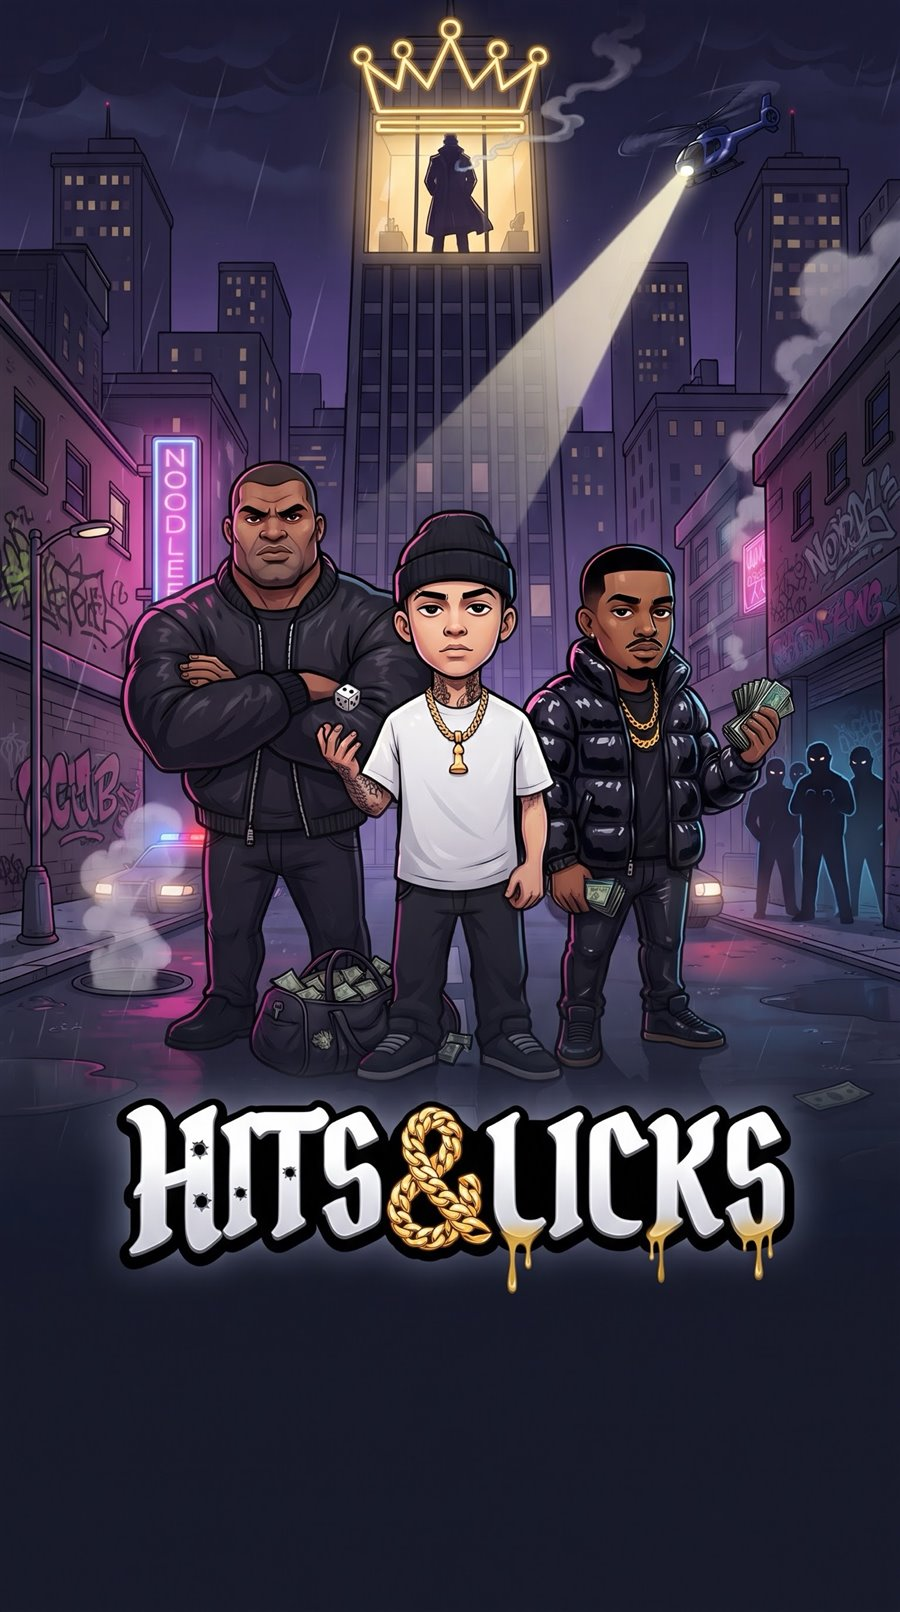
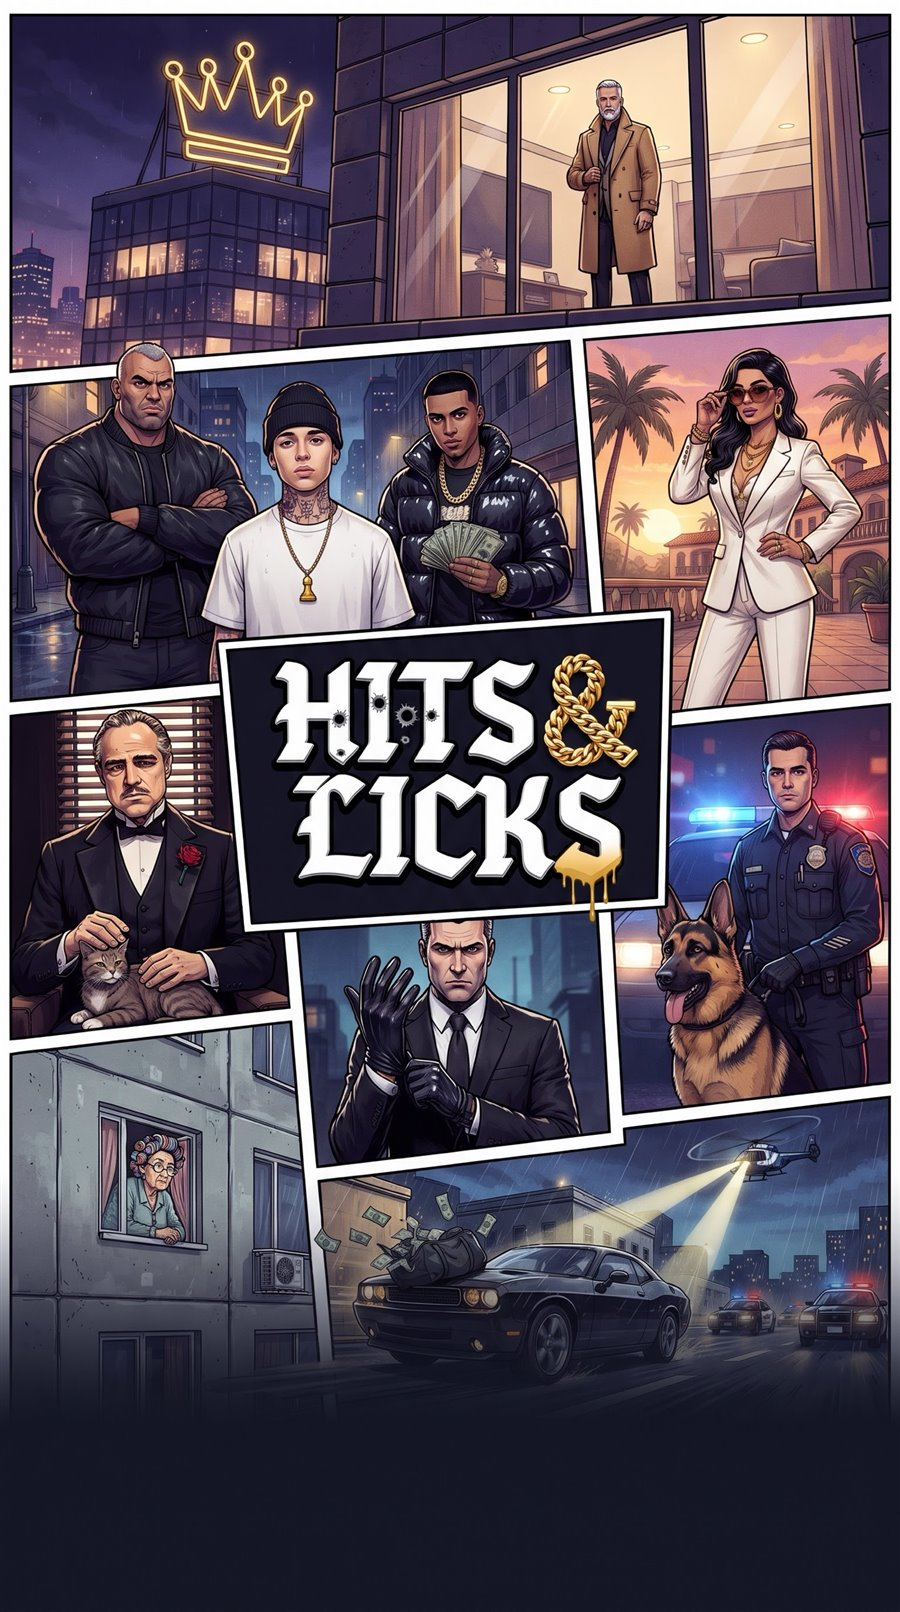
Novy plagat na uvodnej obrazovke

diff --git a/js/remote.js b/js/remote.js
@@ -1,10 +1,10 @@
 // Online client: the same SimServer, but only as a read-only mirror of the state the real server sent.
 // Every action goes to the Edge Function "game"; its answer replaces the mirror. Things the server rolls
 // at random (mission offers, shop stock, arena opponents, rival gang moves) are never rolled here.
-import { SimServer } from './server.js?v=20261022183010';
-import { NET } from './net.js?v=20261022183010';
-import { CONFIG } from './config.js?v=20261022183010';
-import { SHOPS } from './data.js?v=20261022183010';
+import { SimServer } from './server.js?v=20261022222349';
+import { NET } from './net.js?v=20261022222349';
+import { CONFIG } from './config.js?v=20261022222349';
+import { SHOPS } from './data.js?v=20261022222349';
 
 const SUPABASE_JS = 'https://cdn.jsdelivr.net/npm/@supabase/supabase-js@2.45.4/+esm';
 
@@ -29,7 +29,7 @@ export class RemoteServer extends SimServer {
 
   // ?mock in the address: no Supabase, the server API runs in this browser against an in-memory database
   async initMock() {
-    const { handle, memoryDb } = await import('./api.js?v=20261022183010');
+    const { handle, memoryDb } = await import('./api.js?v=20261022222349');
     const db = memoryDb();
     const fake = { user: { id: 'mock-user', email: 'test@mock' } };
     this.sb = { auth: { signOut: async () => {}, signInWithPassword: async () => ({ data: { session: fake } }), signUp: async () => ({ data: { session: fake } }), resetPasswordForEmail: async () => ({}) } };

diff --git a/js/world.js b/js/world.js
@@ -1,8 +1,8 @@
 // The open world: pixel-art city, player movement, NPCs, traffic, police. Uses global Phaser.
 // The city (Mesto 1) comes from assets/world/city.json, made by tools/art/City.cs: a collision grid,
 // a street graph that cars, police, walkers, the Ripper and the runner move on, and the buildings (marks).
-import { NPCS, POIS, SPAWN, LABELS, TURF, TRAFFIC_CARS, POLICE_CARS, WALKER_SPRITES, WALKER_COUNT } from './data.js?v=20261022183010';
-import { mulberry32 } from './combat.js?v=20261022183010'; // the server's generator: a task's seed hides its packages on the same corners everywhere
+import { NPCS, POIS, SPAWN, LABELS, TURF, TRAFFIC_CARS, POLICE_CARS, WALKER_SPRITES, WALKER_COUNT } from './data.js?v=20261022222349';
+import { mulberry32 } from './combat.js?v=20261022222349'; // the server's generator: a task's seed hides its packages on the same corners everywhere
 
 const PEOPLE = ['hrac', 'zlodej', 'svalovec', 'dealer', 'boss', 'zadavatel', 'diler', 'mechanik', 'pravnicka', 'lekarka', 'policajt', 'chodkyna', 'chodec'];
 const CARS = ['sedan_blue', 'sedan_red', 'sedan_green', 'sedan_white', 'taxi', 'police', 'van', 'pickup'];

diff --git a/css/style.css b/css/style.css
@@ -357,8 +357,8 @@ button:focus-visible { outline: 1px solid var(--gold-l); outline-offset: 2px; }
 /* title poster (logo included): the form sits in its dark lower part, which fades into the page black */
 .title-scr .poster { position: absolute; left: 0; right: 0; top: 0; }
 .title-scr .poster img { display: block; width: 100%; height: auto; }
-.title-scr .poster::after { content: ''; position: absolute; left: 0; right: 0; bottom: 0; height: 17%; background: linear-gradient(180deg, rgba(6,6,6,0), #060606 90%); }
-.title-scr .poster ~ .inner { padding-top: 144%; }
+.title-scr .poster::after { content: ''; position: absolute; left: 0; right: 0; bottom: 0; height: 14%; background: linear-gradient(180deg, rgba(6,6,6,0), #060606 90%); }
+.title-scr .poster ~ .inner { padding-top: 164%; }
 .title-scr .poster ~ .inner .tag { margin-top: 0; }
 .logo.sr { position: absolute; width: 1px; height: 1px; overflow: hidden; clip: rect(0 0 0 0); white-space: nowrap; }
 .logo { margin: 0; text-align: center; font-family: var(--black); font-weight: 900; font-size: 70px; line-height: .95; color: #efe9dc; text-shadow: 0 3px 0 #000, 0 0 24px rgba(0,0,0,.95); }

diff --git a/js/server.js b/js/server.js
@@ -1,10 +1,10 @@
 // Simulated game server. Every rule about money, rewards and fights lives here, so this module
 // can later move to a real backend (Supabase / Nakama) while the client keeps the same calls.
-import { CONFIG, F, STATS, STAT_NAMES, CLASSES, RARITIES, clamp, localParts } from './config.js?v=20261022183010';
-import { ITEM_BASES, SHOPS, MISSIONS, GIVERS, BOSSES, BOT_NAMES, SLOTS } from './data.js?v=20261022183010';
-import { makeFighter, simulate } from './combat.js?v=20261022183010';
-import { GangMixin } from './gangs.js?v=20261022183010';
-import { DailyMixin } from './daily.js?v=20261022183010';
+import { CONFIG, F, STATS, STAT_NAMES, CLASSES, RARITIES, clamp, localParts } from './config.js?v=20261022222349';
+import { ITEM_BASES, SHOPS, MISSIONS, GIVERS, BOSSES, BOT_NAMES, SLOTS } from './data.js?v=20261022222349';
+import { makeFighter, simulate } from './combat.js?v=20261022222349';
+import { GangMixin } from './gangs.js?v=20261022222349';
+import { DailyMixin } from './daily.js?v=20261022222349';
 
 const KEY = 'hitsnlicks.save.v1';
 const MIN = 60000;

diff --git a/js/ui.js b/js/ui.js
@@ -1,8 +1,8 @@
 // HTML interface: HUD, menus, screens, modals. Talks only to the (simulated) server.
-import { STATS, STAT_NAMES, CLASSES, RARITIES, CONFIG, F } from './config.js?v=20261022183010';
-import { SLOTS, ITEM_BASES, SHOPS, MISSIONS, GIVERS, BOSSES, GANG_COLORS, GANG_RANKS, GANG_UPGRADES } from './data.js?v=20261022183010';
-import { DAILY_TYPES } from './daily.js?v=20261022183010';
-import { LOOK_BASE, LOOK_PARTS } from './looks.js?v=20261022183010';
+import { STATS, STAT_NAMES, CLASSES, RARITIES, CONFIG, F } from './config.js?v=20261022222349';
+import { SLOTS, ITEM_BASES, SHOPS, MISSIONS, GIVERS, BOSSES, GANG_COLORS, GANG_RANKS, GANG_UPGRADES } from './data.js?v=20261022222349';
+import { DAILY_TYPES } from './daily.js?v=20261022222349';
+import { LOOK_BASE, LOOK_PARTS } from './looks.js?v=20261022222349';
 
 const $ = (sel, el = document) => el.querySelector(sel);
 const fmt = (n) => Math.round(n).toLocaleString('sk-SK');

diff --git a/js/gangs.js b/js/gangs.js
@@ -1,9 +1,9 @@
 // Gangs (guilds like in Shakes & Fidget) and Gang Wars: turf objects on the map give the whole gang
 // a bonus while it holds them. Rival gangs are computer-run until a real server brings real players.
 // Mixed into SimServer, so `this` is the server.
-import { CONFIG, F, STATS, CLASSES, RARITIES } from './config.js?v=20261022183010';
-import { TURF, TURF_KINDS, RIVAL_GANGS, GANG_COLORS, GANG_UPGRADES, BOT_NAMES } from './data.js?v=20261022183010';
-import { makeFighter, simulate, mulberry32 } from './combat.js?v=20261022183010';
+import { CONFIG, F, STATS, CLASSES, RARITIES } from './config.js?v=20261022222349';
+import { TURF, TURF_KINDS, RIVAL_GANGS, GANG_COLORS, GANG_UPGRADES, BOT_NAMES } from './data.js?v=20261022222349';
+import { makeFighter, simulate, mulberry32 } from './combat.js?v=20261022222349';
 
 const MIN = 60000;
 const ok = (data = {}) => ({ ok: true, ...data });

diff --git a/js/main.js b/js/main.js
@@ -1,9 +1,9 @@
-import { SimServer } from './server.js?v=20261022183010';
-import { RemoteServer } from './remote.js?v=20261022183010';
-import { ONLINE } from './net.js?v=20261022183010';
-import { CONFIG } from './config.js?v=20261022183010';
-import { UI } from './ui.js?v=20261022183010';
-import { createWorld } from './world.js?v=20261022183010';
+import { SimServer } from './server.js?v=20261022222349';
+import { RemoteServer } from './remote.js?v=20261022222349';
+import { ONLINE } from './net.js?v=20261022222349';
+import { CONFIG } from './config.js?v=20261022222349';
+import { UI } from './ui.js?v=20261022222349';
+import { createWorld } from './world.js?v=20261022222349';
 
 // warm the browser cache so screens open without blank images
 ['maska', 'diler', 'kladivo', 'fightbg', 'it_pistol', 'it_bat', 'it_watch', 'it_duffel', 'it_package', 'it_keys']

diff --git a/index.html b/index.html
@@ -8,7 +8,7 @@
 <link rel="preconnect" href="https://fonts.googleapis.com">
 <link rel="preconnect" href="https://fonts.gstatic.com" crossorigin>
 <link href="https://fonts.googleapis.com/css2?family=Grenze+Gotisch:wght@500;700;900&amp;family=EB+Garamond:ital,wght@0,400;0,500;0,600;0,700;1,400&amp;display=swap" rel="stylesheet">
-<link rel="stylesheet" href="css/style.css?v=20261022183010">
+<link rel="stylesheet" href="css/style.css?v=20261022222349">
 <script src="https://cdn.jsdelivr.net/npm/phaser@3.80.1/dist/phaser.min.js"></script>
 </head>
 <body>
@@ -78,6 +78,6 @@
   <div id="modal" hidden></div>
   <div id="toasts"></div>
 </div>
-<script type="module" src="js/main.js?v=20261022183010"></script>
+<script type="module" src="js/main.js?v=20261022222349"></script>
 </body>
 </html>

diff --git a/js/daily.js b/js/daily.js
@@ -2,8 +2,8 @@
 // 15-day reward calendar (cash, a level, gold bars, a legendary item on day 15). A skipped day just waits.
 // The map reports progress (dailyStep); the server picks the places, counts and checks the timing.
 // Mixed into SimServer, so `this` is the server.
-import { CONFIG, F } from './config.js?v=20261022183010';
-import { ITEM_BASES, POIS, TURF } from './data.js?v=20261022183010';
+import { CONFIG, F } from './config.js?v=20261022222349';
+import { ITEM_BASES, POIS, TURF } from './data.js?v=20261022222349';
 
 const ok = (data = {}) => ({ ok: true, ...data });
 const fail = (error) => ({ ok: false, error });

diff --git a/js/api.js b/js/api.js
@@ -12,8 +12,8 @@
 //   hall(n) -> [{ id, name, level, cls, points }]   (highest level first)
 //   addPoints(id, delta)
 //   deletePlayer(id)
-import { SimServer } from './server.js?v=20261022183010';
-import { GIVERS, SHOPS } from './data.js?v=20261022183010';
+import { SimServer } from './server.js?v=20261022222349';
+import { GIVERS, SHOPS } from './data.js?v=20261022222349';
 
 const memStore = { load: () => null, save() {}, clear() {} };
 const fail = (error) => ({ ok: false, error });

diff --git a/js/combat.js b/js/combat.js
@@ -1,5 +1,5 @@
 // Automatic stat-based combat. Pure functions: the real server would run exactly this.
-import { CONFIG, F } from './config.js?v=20261022183010';
+import { CONFIG, F } from './config.js?v=20261022222349';
 
 export function mulberry32(seed) {
   let a = seed >>> 0;
